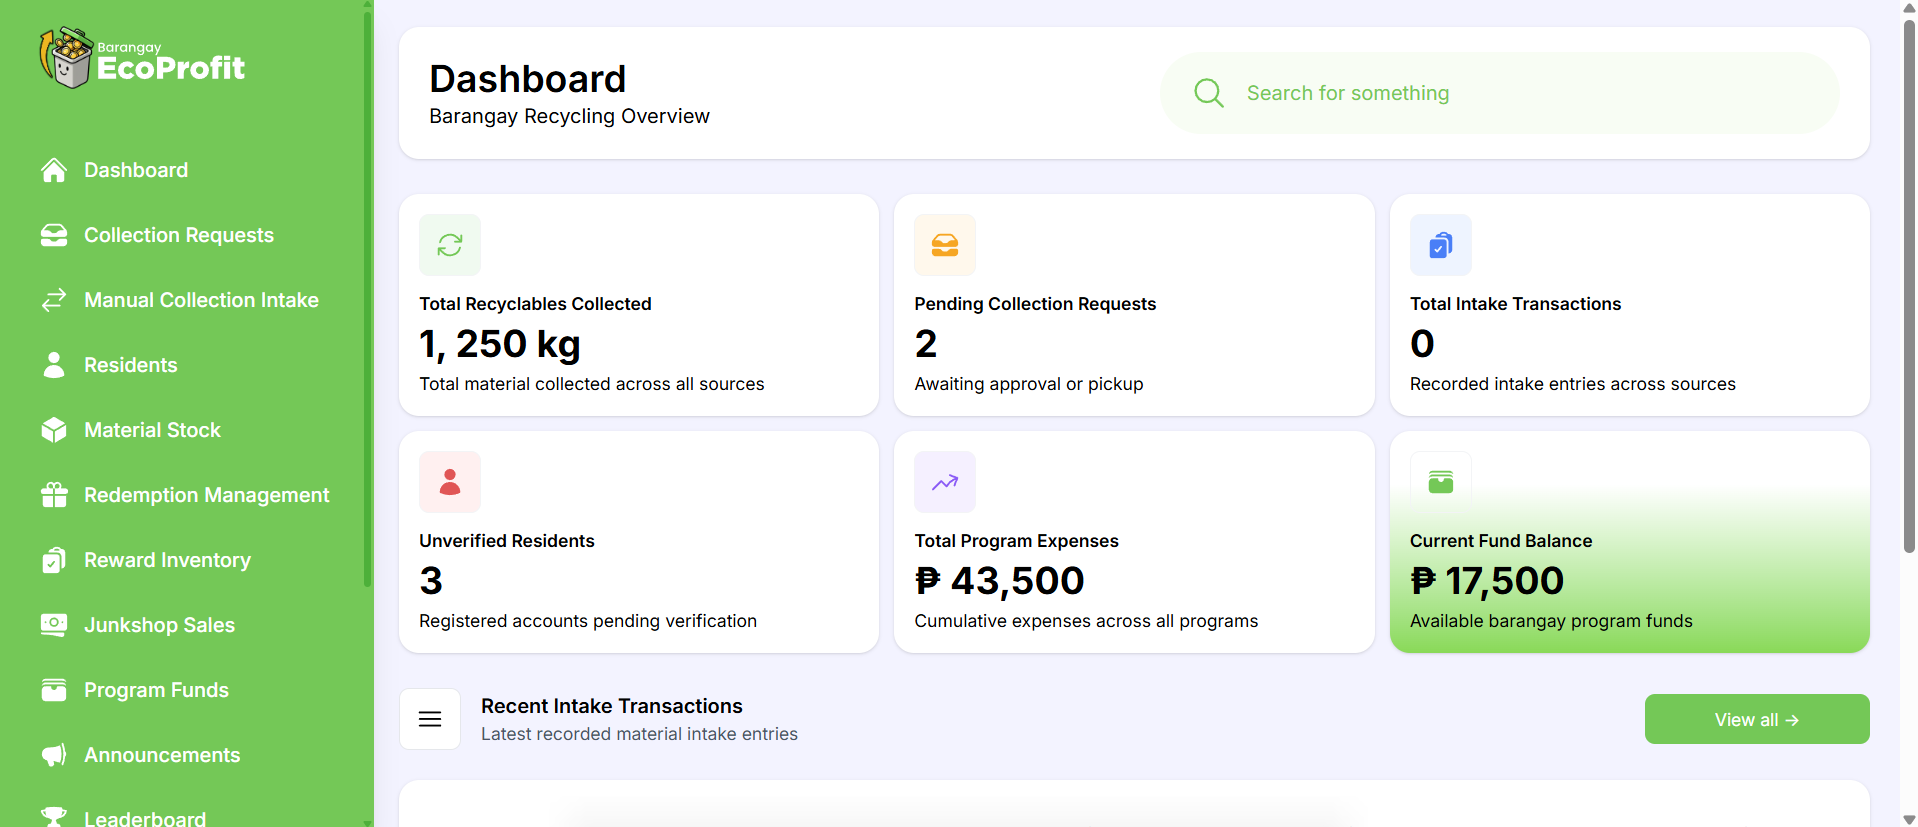
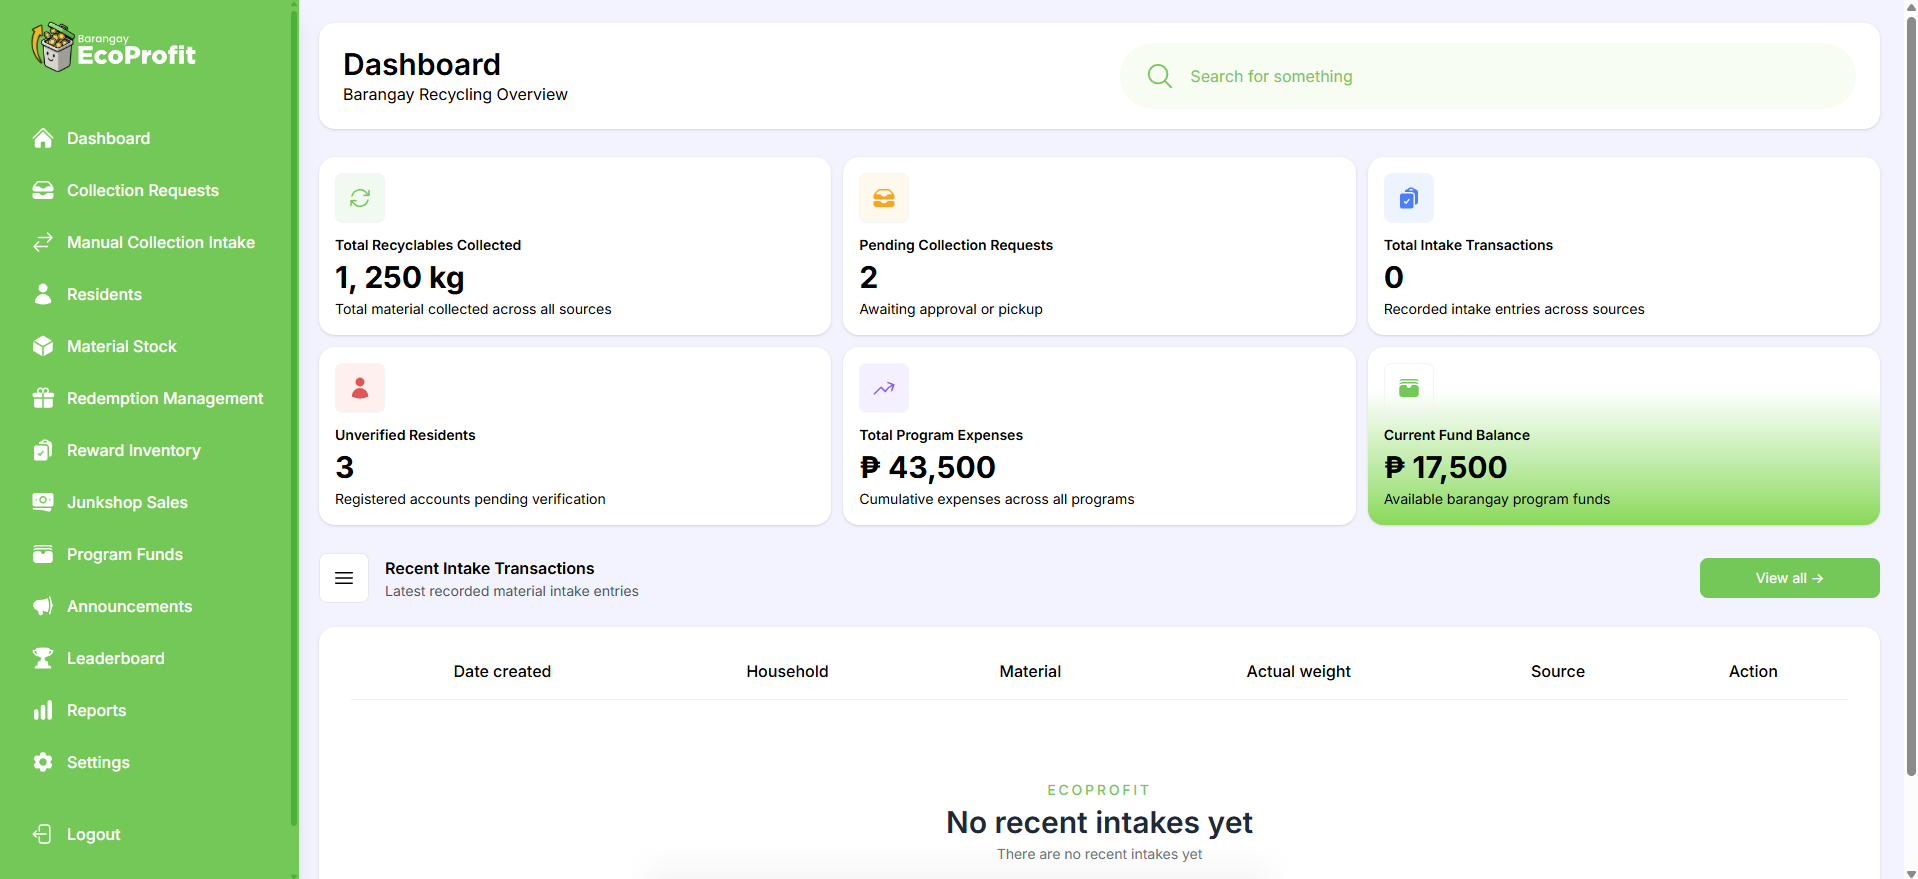
Add projects

diff --git a/src/components/sections/Projects.jsx b/src/components/sections/Projects.jsx
@@ -4,13 +4,20 @@ import { JsIcon } from "../icons/JsIcon";
 import { PhpIcon } from "../icons/PhpIcon";
 import { GithubIcon } from "../icons/GithubIcon";
 import { ReactIcon } from "../icons/ReactIcon";
-import ecoprofit from "/src/assets/images/ecoprofit.png"
+import ecoprofit from "/src/assets/images/ecoprofit.png";
 import { TailwindIcon } from "../icons/TailwindIcon";
 import { RevealOnScroll } from "../RevealOnScroll";
 import { Meteors } from "../ui/Meteors";
 import ibadyetkon from "/src/assets/images/ibadyetkon.png";
 import portfoliopic from "/src/assets/images/portfolio.png";
+import sjf from "/src/assets/images/sjf-algorithm.png";
+import lru from "/src/assets/images/lru-algorithm.png";
+import { ExpressIcon } from "../icons/ExpressIcon";
+import { NextIcon } from "../icons/NextIcon";
 import { color } from "motion";
+import { PostgresIcon } from "../icons/PostgresIcon";
+import { Prismaicon } from "../icons/PrismaIcon";
+import { ExternalLink } from "lucide-react";
 
 
 export const Projects = () => {
@@ -27,19 +34,30 @@ export const Projects = () => {
   ];
 
   const ecoProfit = [
-    { name: "Next.js", Icon: ReactIcon, color: "#61DAFB"},
-    { name: "Express.js", Icon: ReactIcon, color: ""},
-    { name: "Tailwind CSS", Icon: TailwindIcon, color: "#06B6D4"},
-    { name: "PostgreSQL", Icon: ReactIcon, color: ""},
-    { name: "Prisma ORM", Icon: ReactIcon, color: ""},
-  ]
+    { name: "Next.js", Icon: NextIcon, color: "#000000" },
+    { name: "Express", Icon: ExpressIcon, color: "#000000" },
+    { name: "Tailwind CSS", Icon: TailwindIcon, color: "#06B6D4" },
+    { name: "PostgreSQL", Icon: PostgresIcon, color: "#4169E1" },
+    { name: "Prisma ORM", Icon: Prismaicon, color: "#2D3748" },
+  ];
+
+  const sjfAlg = [
+    { name: "React.js", Icon: ReactIcon, color: "#61DAFB" },
+    { name: "Tailwind CSS", Icon: TailwindIcon, color: "#06B6D4" },
+  ];
+
+  const lruAlg = [
+    { name: "React.js", Icon: ReactIcon, color: "#61DAFB" },
+    { name: "Tailwind CSS", Icon: TailwindIcon, color: "#06B6D4" },
+  ];
+
 
   return (
     <section
       id="projects"
       className="min-h-screen flex items-center justify-center py-20 relative"
     >
-      <Meteors number={25}/>
+      <Meteors number={25} />
       <RevealOnScroll>
         <div className="mx-auto px-6 lg:px-0 max-w-3xl md:max-w-5xl">
           <div className="mb-11.25 text-center">
@@ -52,101 +70,142 @@ export const Projects = () => {
             </p>
           </div>
 
-          <div className="grid grid-cols-1 md:grid-cols-2 gap-6">
-            <div className="rounded-lg border border-white/10 hover:border-blue-900 overflow-hidden hover:-translate-y-1 transition-all group bg-[#00000025]">
+          {/* EcoProfit */}
+          <div className="grid grid-cols-1 md:grid-cols-2 lg:grid-cols-3 gap-6 md:gap-3">
+            <a
+              className="rounded-lg border border-white/10 overflow-hidden hover:-translate-y-1 transition-all group bg-white/2 hover:bg-white/10 relative "
+              href="https://github.com/kentvillalun/ecoprofit"
+              target="_blank"
+            >
+              <a
+                className="top-3 right-3 absolute bg-[rgba(0,0,0,0.25)] backdrop-blur-lg text-[10px] border border-white/0 flex flex-row gap-1 rounded-md items-center py-0.5 px-2 z-50 hover:bg-[rgba(0,0,0,0.50)] transition-all duration-200 ease-in-out hover:cursor-pointer"
+                href="https://ecoprofit-app.vercel.app/barangay/login"
+                target="_blank"
+              >
+                <ExternalLink size={14} />
+                <p className="text-xs font-medium">Live</p>
+              </a>
               <img
                 src={ecoprofit}
                 alt=""
                 className="group-hover:scale-105 transition-all "
               />
+
               {/* this div will be a tag later on */}
-              <div className="p-6 flex flex-col gap-5">
-                <div className="flex flex-col gap-2">
-                  <h3 className="text-xl font-bold">EcoProfit</h3>
-                  <p>
-                    A full-stack PWA barangay waste management system designed to automate the process of collecting, managing, and utilizing recyclable materials in a barangay.
+              <div className="p-5 flex flex-col gap-5">
+                <div className="flex flex-col gap-2 justify-between">
+                  <h3 className="text-lg font-bold group-hover:text-blue-500 text-white transition-all ease-in-out">EcoProfit</h3>
+                  <p className="text-sm text-white/70 overflow-hidden mb-2">
+                    A full-stack PWA that helps barangays manage recyclable
+                    material collections, redemption programs, and finances.
                   </p>
-                  <div className="flex flex-wrap gap-1">
+                  <div className="flex flex-wrap gap-1 mt-auto">
                     {ecoProfit.map(({ name, Icon, color }) => (
                       <span
                         key={name}
-                        className="flex items-center gap-1 px-3 py-1.5 rounded-[50px] bg-[#FFFFFF05] text-[10px] border border-[#36363650] justify-center cursor-pointer hover:bg-[#FFFFFF10] transition-colors "
+                        className="flex items-center gap-2 px-2 py-1 rounded-[50px] bg-[#FFFFFF05] text-[10px] border border-[#36363650] justify-center cursor-pointer transition-colors "
                       >
-                        <Icon className={`w-2.5 h-2.5`} fill={color} />
-                        <span className="">{name}</span>
+                        <Icon className={`w-4 h-4`} fill={color} />
+                        <span className="text-xs font-medium text-white/80">
+                          {name}
+                        </span>
                       </span>
                     ))}
                   </div>
                 </div>
-
-                <div className="flex flex-row gap-2 justify-end">
-                  <a
-                    href="https://ecoprofit-app.vercel.app/barangay/login"
-                    className="py-3 px-5 bg-[#3B82F6] hover:bg-[#0876e4] rounded-lg transition-all"
-                    target="_blank"
-                  >
-                    Live Demo
-                  </a>
-                  <a
-                    href="https://github.com/kentvillalun/ecoprofit"
-                    className="rounded-lg bg-[#FFFFFF05] py-3 px-4 border border-[#36363650] hover:bg-[#FFFFFF10] transition-colors"
-                    target="_blank"
-                  >
-                    <GithubIcon />
-                  </a>
-                </div>
               </div>
-            </div>
+            </a>
 
-            <div className="rounded-lg border border-white/10 hover:border-blue-900 overflow-hidden hover:-translate-y-1 transition-all group bg-[#00000025]"> 
-            <div className="">
 
             
+            <a
+              className="rounded-lg border border-white/10 overflow-hidden hover:-translate-y-1 transition-all group bg-white/2 hover:bg-white/10 relative "
+              href="https://github.com/kentvillalun/sjf-scheduling-simulator"
+              target="_blank"
+            >
+              <a
+                className="top-3 right-3 absolute bg-[rgba(0,0,0,0.25)] backdrop-blur-lg text-[10px] border border-white/0 flex flex-row gap-1 rounded-md items-center py-0.5 px-2 z-50 hover:bg-[rgba(0,0,0,0.50)] transition-all duration-200 ease-in-out hover:cursor-pointer"
+                href="https://sjf-scheduling-simulator.vercel.app/"
+                target="_blank"
+              >
+                <ExternalLink size={14} />
+                <p className="text-xs font-medium">Live</p>
+              </a>
               <img
-                src={portfoliopic}
+                src={sjf}
                 alt=""
                 className="group-hover:scale-105 transition-all "
               />
+
               {/* this div will be a tag later on */}
-              <div className="p-6 flex flex-col gap-5 ">
-                <div className="flex flex-col gap-2 ">
-                  <h3 className="text-xl font-bold">Personal Portfolio</h3>
-                  <p>
-                    A modern portfolio website where I display my projects and
-                    technical stack.
+              <div className="p-5 flex flex-col gap-5">
+                <div className="flex flex-col gap-2 justify-between">
+                  <h3 className="text-lg font-bold group-hover:text-blue-500 text-white transition-all ease-in-out">SJF Algorithm Simulator</h3>
+                  <p className="text-sm text-white/70 overflow-hidden max-h-15 mb-2">
+                    An interactive simulator where users input processes with burst times and arrival times, then visualize execution via a Gantt chart with computed metrics like CPU Utilization, throughput, average turnaround time and average waiting time.
                   </p>
-                  <div className="flex flex-wrap gap-1">
-                    {portfolio.map(({ name, Icon, color }) => (
+                  <div className="flex flex-wrap gap-1 mt-auto">
+                    {sjfAlg.map(({ name, Icon, color }) => (
                       <span
                         key={name}
-                        className="flex items-center gap-1 px-3 py-1.5 rounded-[50px] bg-[#FFFFFF05] text-[10px] border border-[#36363650] justify-center cursor-pointer hover:bg-[#FFFFFF10] transition-colors"
+                        className="flex items-center gap-2 px-2 py-1 rounded-[50px] bg-[#FFFFFF05] text-[10px] border border-[#36363650] justify-center cursor-pointer transition-colors "
                       >
-                        <Icon className={`w-2.5 h-2.5`} fill={color} />
-                        <span className="">{name}</span>
+                        <Icon className={`w-4 h-4`} fill={color} />
+                        <span className="text-xs font-medium text-white/80">
+                          {name}
+                        </span>
                       </span>
                     ))}
                   </div>
                 </div>
-                </div>
+              </div>
+            </a>
 
-                <div className="flex flex-row gap-2 justify-end">
-                  <a
-                    href=""
-                    className="py-3 px-5 bg-[#3B82F6] hover:bg-[#0876e4] rounded-lg transition-all"
-                    target="_blank"
-                  >
-                    Live Demo
-                  </a>
-                  <a
-                    href="https://github.com/kentvillalun/portfolio"
-                    className="rounded-lg bg-[#FFFFFF05] py-3 px-4 border border-[#36363650] hover:bg-[#FFFFFF10] transition-colors"
-                    target="_blank"
-                  >
-                    <GithubIcon />
-                  </a>
+
+            <a
+              className="rounded-lg border border-white/10 overflow-hidden hover:-translate-y-1 transition-all group bg-white/2 hover:bg-white/10 relative "
+              href="https://github.com/kentvillalun/lru-page-replacement-alg"
+              target="_blank"
+            >
+              <a
+                className="top-3 right-3 absolute bg-[rgba(0,0,0,0.25)] backdrop-blur-lg text-[10px] border border-white/0 flex flex-row gap-1 rounded-md items-center py-0.5 px-2 z-50 hover:bg-[rgba(0,0,0,0.50)] transition-all duration-200 ease-in-out hover:cursor-pointer"
+                href="https://lru-page-replacement-alg.vercel.app/"
+                target="_blank"
+              >
+                <ExternalLink size={14} />
+                <p className="text-xs font-medium">Live</p>
+              </a>
+              <img
+                src={lru}
+                alt=""
+                className="group-hover:scale-105 transition-all "
+              />
+
+              {/* this div will be a tag later on */}
+              <div className="p-5 flex flex-col gap-5">
+                <div className="flex flex-col gap-2 justify-between">
+                  <h3 className="text-lg font-bold group-hover:text-blue-500 text-white transition-all ease-in-out">LRU Page Replacement Simulator</h3>
+                  <p className="text-sm text-white/70 overflow-hidden max-h-15 mb-2">
+                    An interactive simulator where users input a page reference string and visualize hit or miss resutls in a step-by-step table format.
+                  </p>
+                  <div className="flex flex-wrap gap-1 mt-auto">
+                    {lruAlg.map(({ name, Icon, color }) => (
+                      <span
+                        key={name}
+                        className="flex items-center gap-2 px-2 py-1 rounded-[50px] bg-[#FFFFFF05] text-[10px] border border-[#36363650] justify-center cursor-pointer transition-colors "
+                      >
+                        <Icon className={`w-4 h-4`} fill={color} />
+                        <span className="text-xs font-medium text-white/80">
+                          {name}
+                        </span>
+                      </span>
+                    ))}
+                  </div>
                 </div>
               </div>
-            </div>
+            </a>
+            
+            
           </div>
         </div>
       </RevealOnScroll>

diff --git a/src/components/icons/PostgresIcon.jsx b/src/components/icons/PostgresIcon.jsx
@@ -1,0 +1,8 @@
+export const PostgresIcon = ({ className, fill }) => {
+  return (
+    <svg role="img" viewBox="0 0 24 24" xmlns="http://www.w3.org/2000/svg" className={className} fill={fill}>
+      <title>PostgreSQL</title>
+      <path d="M23.5594 14.7228a.5269.5269 0 0 0-.0563-.1191c-.139-.2632-.4768-.3418-1.0074-.2321-1.6533.3411-2.2935.1312-2.5256-.0191 1.342-2.0482 2.445-4.522 3.0411-6.8297.2714-1.0507.7982-3.5237.1222-4.7316a1.5641 1.5641 0 0 0-.1509-.235C21.6931.9086 19.8007.0248 17.5099.0005c-1.4947-.0158-2.7705.3461-3.1161.4794a9.449 9.449 0 0 0-.5159-.0816 8.044 8.044 0 0 0-1.3114-.1278c-1.1822-.0184-2.2038.2642-3.0498.8406-.8573-.3211-4.7888-1.645-7.2219.0788C.9359 2.1526.3086 3.8733.4302 6.3043c.0409.818.5069 3.334 1.2423 5.7436.4598 1.5065.9387 2.7019 1.4334 3.582.553.9942 1.1259 1.5933 1.7143 1.7895.4474.1491 1.1327.1441 1.8581-.7279.8012-.9635 1.5903-1.8258 1.9446-2.2069.4351.2355.9064.3625 1.39.3772a.0569.0569 0 0 0 .0004.0041 11.0312 11.0312 0 0 0-.2472.3054c-.3389.4302-.4094.5197-1.5002.7443-.3102.064-1.1344.2339-1.1464.8115-.0025.1224.0329.2309.0919.3268.2269.4231.9216.6097 1.015.6331 1.3345.3335 2.5044.092 3.3714-.6787-.017 2.231.0775 4.4174.3454 5.0874.2212.5529.7618 1.9045 2.4692 1.9043.2505 0 .5263-.0291.8296-.0941 1.7819-.3821 2.5557-1.1696 2.855-2.9059.1503-.8707.4016-2.8753.5388-4.1012.0169-.0703.0357-.1207.057-.1362.0007-.0005.0697-.0471.4272.0307a.3673.3673 0 0 0 .0443.0068l.2539.0223.0149.001c.8468.0384 1.9114-.1426 2.5312-.4308.6438-.2988 1.8057-1.0323 1.5951-1.6698zM2.371 11.8765c-.7435-2.4358-1.1779-4.8851-1.2123-5.5719-.1086-2.1714.4171-3.6829 1.5623-4.4927 1.8367-1.2986 4.8398-.5408 6.108-.13-.0032.0032-.0066.0061-.0098.0094-2.0238 2.044-1.9758 5.536-1.9708 5.7495-.0002.0823.0066.1989.0162.3593.0348.5873.0996 1.6804-.0735 2.9184-.1609 1.1504.1937 2.2764.9728 3.0892.0806.0841.1648.1631.2518.2374-.3468.3714-1.1004 1.1926-1.9025 2.1576-.5677.6825-.9597.5517-1.0886.5087-.3919-.1307-.813-.5871-1.2381-1.3223-.4796-.839-.9635-2.0317-1.4155-3.5126zm6.0072 5.0871c-.1711-.0428-.3271-.1132-.4322-.1772.0889-.0394.2374-.0902.4833-.1409 1.2833-.2641 1.4815-.4506 1.9143-1.0002.0992-.126.2116-.2687.3673-.4426a.3549.3549 0 0 0 .0737-.1298c.1708-.1513.2724-.1099.4369-.0417.156.0646.3078.26.3695.4752.0291.1016.0619.2945-.0452.4444-.9043 1.2658-2.2216 1.2494-3.1676 1.0128zm2.094-3.988-.0525.141c-.133.3566-.2567.6881-.3334 1.003-.6674-.0021-1.3168-.2872-1.8105-.8024-.6279-.6551-.9131-1.5664-.7825-2.5004.1828-1.3079.1153-2.4468.079-3.0586-.005-.0857-.0095-.1607-.0122-.2199.2957-.2621 1.6659-.9962 2.6429-.7724.4459.1022.7176.4057.8305.928.5846 2.7038.0774 3.8307-.3302 4.7363-.084.1866-.1633.3629-.2311.5454zm7.3637 4.5725c-.0169.1768-.0358.376-.0618.5959l-.146.4383a.3547.3547 0 0 0-.0182.1077c-.0059.4747-.054.6489-.115.8693-.0634.2292-.1353.4891-.1794 1.0575-.11 1.4143-.8782 2.2267-2.4172 2.5565-1.5155.3251-1.7843-.4968-2.0212-1.2217a6.5824 6.5824 0 0 0-.0769-.2266c-.2154-.5858-.1911-1.4119-.1574-2.5551.0165-.5612-.0249-1.9013-.3302-2.6462.0044-.2932.0106-.5909.019-.8918a.3529.3529 0 0 0-.0153-.1126 1.4927 1.4927 0 0 0-.0439-.208c-.1226-.4283-.4213-.7866-.7797-.9351-.1424-.059-.4038-.1672-.7178-.0869.067-.276.1831-.5875.309-.9249l.0529-.142c.0595-.16.134-.3257.213-.5012.4265-.9476 1.0106-2.2453.3766-5.1772-.2374-1.0981-1.0304-1.6343-2.2324-1.5098-.7207.0746-1.3799.3654-1.7088.5321a5.6716 5.6716 0 0 0-.1958.1041c.0918-1.1064.4386-3.1741 1.7357-4.4823a4.0306 4.0306 0 0 1 .3033-.276.3532.3532 0 0 0 .1447-.0644c.7524-.5706 1.6945-.8506 2.802-.8325.4091.0067.8017.0339 1.1742.081 1.939.3544 3.2439 1.4468 4.0359 2.3827.8143.9623 1.2552 1.9315 1.4312 2.4543-1.3232-.1346-2.2234.1268-2.6797.779-.9926 1.4189.543 4.1729 1.2811 5.4964.1353.2426.2522.4522.2889.5413.2403.5825.5515.9713.7787 1.2552.0696.087.1372.1714.1885.245-.4008.1155-1.1208.3825-1.0552 1.717-.0123.1563-.0423.4469-.0834.8148-.0461.2077-.0702.4603-.0994.7662zm.8905-1.6211c-.0405-.8316.2691-.9185.5967-1.0105a2.8566 2.8566 0 0 0 .135-.0406 1.202 1.202 0 0 0 .1342.103c.5703.3765 1.5823.4213 3.0068.1344-.2016.1769-.5189.3994-.9533.6011-.4098.1903-1.0957.333-1.7473.3636-.7197.0336-1.0859-.0807-1.1721-.151zm.5695-9.2712c-.0059.3508-.0542.6692-.1054 1.0017-.055.3576-.112.7274-.1264 1.1762-.0142.4368.0404.8909.0932 1.3301.1066.887.216 1.8003-.2075 2.7014a3.5272 3.5272 0 0 1-.1876-.3856c-.0527-.1276-.1669-.3326-.3251-.6162-.6156-1.1041-2.0574-3.6896-1.3193-4.7446.3795-.5427 1.3408-.5661 2.1781-.463zm.2284 7.0137a12.3762 12.3762 0 0 0-.0853-.1074l-.0355-.0444c.7262-1.1995.5842-2.3862.4578-3.4385-.0519-.4318-.1009-.8396-.0885-1.2226.0129-.4061.0666-.7543.1185-1.0911.0639-.415.1288-.8443.1109-1.3505.0134-.0531.0188-.1158.0118-.1902-.0457-.4855-.5999-1.938-1.7294-3.253-.6076-.7073-1.4896-1.4972-2.6889-2.0395.5251-.1066 1.2328-.2035 2.0244-.1859 2.0515.0456 3.6746.8135 4.8242 2.2824a.908.908 0 0 1 .0667.1002c.7231 1.3556-.2762 6.2751-2.9867 10.5405zm-8.8166-6.1162c-.025.1794-.3089.4225-.6211.4225a.5821.5821 0 0 1-.0809-.0056c-.1873-.026-.3765-.144-.5059-.3156-.0458-.0605-.1203-.178-.1055-.2844.0055-.0401.0261-.0985.0925-.1488.1182-.0894.3518-.1226.6096-.0867.3163.0441.6426.1938.6113.4186zm7.9305-.4114c.0111.0792-.049.201-.1531.3102-.0683.0717-.212.1961-.4079.2232a.5456.5456 0 0 1-.075.0052c-.2935 0-.5414-.2344-.5607-.3717-.024-.1765.2641-.3106.5611-.352.297-.0414.6111.0088.6356.1851z" />
+    </svg>
+  );
+};

diff --git a/src/components/icons/ExpressIcon.jsx b/src/components/icons/ExpressIcon.jsx
@@ -1,0 +1,14 @@
+export const ExpressIcon = ({className, fill}) => {
+  return (
+    <svg
+      role="img"
+      viewBox="0 0 24 24"
+      xmlns="http://www.w3.org/2000/svg"
+      className={className}
+      fill={fill}
+    >
+      <title>Express</title>
+      <path d="M24 18.588a1.529 1.529 0 01-1.895-.72l-3.45-4.771-.5-.667-4.003 5.444a1.466 1.466 0 01-1.802.708l5.158-6.92-4.798-6.251a1.595 1.595 0 011.9.666l3.576 4.83 3.596-4.81a1.435 1.435 0 011.788-.668L21.708 7.9l-2.522 3.283a.666.666 0 000 .994l4.804 6.412zM.002 11.576l.42-2.075c1.154-4.103 5.858-5.81 9.094-3.27 1.895 1.489 2.368 3.597 2.275 5.973H1.116C.943 16.447 4.005 19.009 7.92 17.7a4.078 4.078 0 002.582-2.876c.207-.666.548-.78 1.174-.588a5.417 5.417 0 01-2.589 3.957 6.272 6.272 0 01-7.306-.933 6.575 6.575 0 01-1.64-3.858c0-.235-.08-.455-.134-.666A88.33 88.33 0 010 11.577zm1.127-.286h9.654c-.06-3.076-2.001-5.258-4.59-5.278-2.882-.04-4.944 2.094-5.071 5.264z" />
+    </svg>
+  );
+};

diff --git a/src/components/icons/PrismaIcon.jsx b/src/components/icons/PrismaIcon.jsx
@@ -1,0 +1,8 @@
+export const Prismaicon = ({ className, fill }) => {
+  return (
+    <svg role="img" viewBox="0 0 24 24" xmlns="http://www.w3.org/2000/svg" className={className} fill={fill}>
+      <title>Prisma</title>
+      <path d="M21.8068 18.2848L13.5528.7565c-.207-.4382-.639-.7273-1.1286-.7541-.5023-.0293-.9523.213-1.2062.6253L2.266 15.1271c-.2773.4518-.2718 1.0091.0158 1.4555l4.3759 6.7786c.2608.4046.7127.6388 1.1823.6388.1332 0 .267-.0188.3987-.0577l12.7019-3.7568c.3891-.1151.7072-.3904.8737-.7553s.1633-.7828-.0075-1.1454zm-1.8481.7519L9.1814 22.2242c-.3292.0975-.6448-.1873-.5756-.5194l3.8501-18.4386c.072-.3448.5486-.3996.699-.0803l7.1288 15.138c.1344.2856-.019.6224-.325.7128z" />
+    </svg>
+  );
+};

diff --git a/src/components/Navbar.jsx b/src/components/Navbar.jsx
@@ -34,7 +34,7 @@ export const Navbar = ({
       className={`fixed z-40 bg-transparent md:rounded-full text-white inset-x-0  md:mx-auto transition-all duration-400 text-sm rounded-md border-transparent ease-in-out top-3
         ${
           isScrolled
-            ? "top-4 bg-[rgba(0,0,0,0.25)] backdrop-blur-lg lg:max-w-5xl md:max-w-3xl m-6 border border-white/0 shadow-[0_0_0_1px_rgba(255,255,255,0.06),0_10px_30px_rgba(0,0,0,0.4)] "
+            ? "top-4 bg-[rgba(0,0,0,0.25)] backdrop-blur-lg lg:max-w-4xl md:max-w-3xl m-6 border border-white/0 shadow-[0_0_0_1px_rgba(255,255,255,0.06),0_10px_30px_rgba(0,0,0,0.4)] "
             : "top-0 max-w-7xl"
         }
     `}

diff --git a/src/components/icons/NextIcon.jsx b/src/components/icons/NextIcon.jsx
@@ -1,0 +1,14 @@
+export const NextIcon = ({className, fill}) => {
+  return (
+    <svg
+      role="img"
+      viewBox="0 0 24 24"
+      xmlns="http://www.w3.org/2000/svg"
+      className={className}
+      fill={fill}
+    >
+      <title>Next.js</title>
+      <path d="M18.665 21.978C16.758 23.255 14.465 24 12 24 5.377 24 0 18.623 0 12S5.377 0 12 0s12 5.377 12 12c0 3.583-1.574 6.801-4.067 9.001L9.219 7.2H7.2v9.596h1.615V9.251l9.85 12.727Zm-3.332-8.533 1.6 2.061V7.2h-1.6v6.245Z" />
+    </svg>
+  );
+};

diff --git a/src/components/MobileMenu.jsx b/src/components/MobileMenu.jsx
@@ -54,8 +54,9 @@ export const MobileMenu = ({
         </a>
 
         <a
-          href=""
+          href="Kent-Villalun-Resume.pdf"
           className="text-white transition-colors "
+          download 
           onClick={() => setMenuOpen(false)}
         >
           Resume
